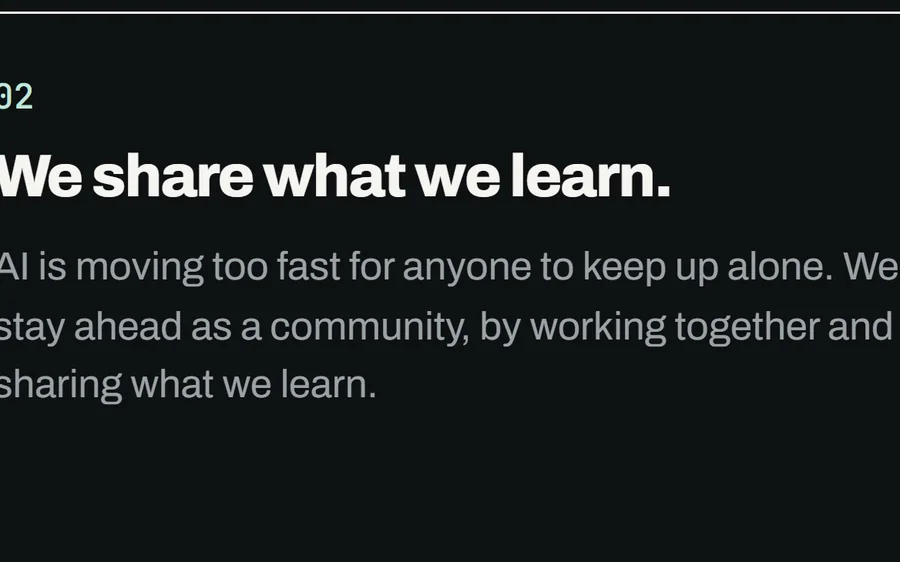
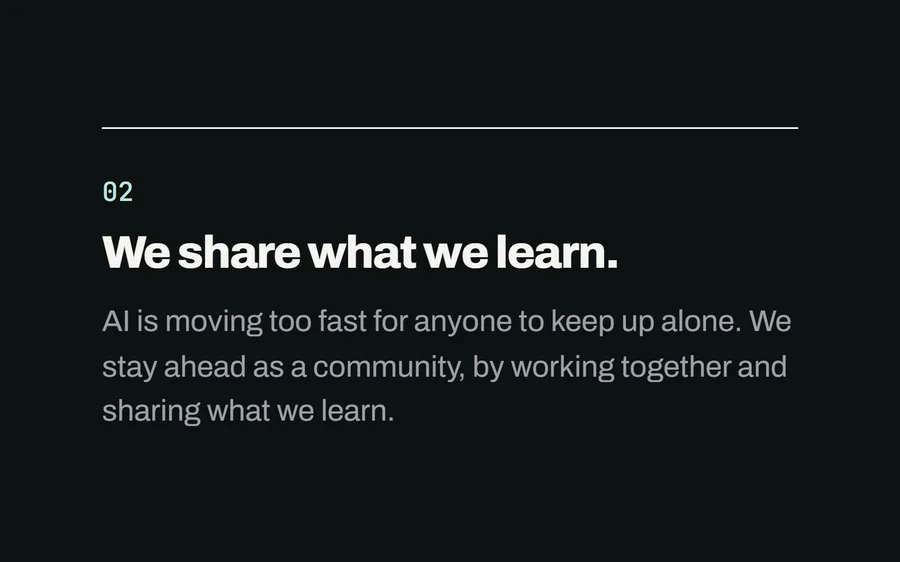
fix: give two AI Build Night step pictures proper margins
The north star crops ran into the edges of their frames, and one lost its
number. Each line now sits whole on the band's own colour.

diff --git a/ASSETS.md b/ASSETS.md
@@ -4,7 +4,7 @@ Everything under `public/media/` is a real capture, taken on 2026-10-31 unless n
 
 | Folder | Source |
 | --- | --- |
-| `build-night/` | aibuildnight.ca in production, captured on 2026-11-01: the home page's closing band, its two north star lines, and the challenge page. Text only: no Night 001 photos, because attendee permission is still pending, and no organisers' portraits. Exported at 480 and 900 wide, 8:5. |
+| `build-night/` | aibuildnight.ca in production, captured on 2026-11-01: the home page's closing band, its two north star lines, each shown alone on the band's own colour with room around it, and the challenge page. Text only: no Night 001 photos, because attendee permission is still pending, and no organisers' portraits. Exported at 480 and 900 wide, 8:5. |
 | `sandbox/` | playbythesandbox.ca in production. `site-loop.mp4` plays forward then backward so it loops cleanly. `event` is the who's-in-the-sandbox sheet and `crayon` the map, captured on 2026-11-01 at 480 and 900 wide, 8:5. |
 | `offbooked/` | Offbooked from its staging branch, run locally on a throwaway Postgres on Hamlet, with demo cast names. `invite` is the screen a cast member lands on, so no invite link is in shot. |
 | `parkdex/` | `arrival` is web.parkdex.app in production, as a guest, in a browser that blocked every write. The `@n8tewolf` on it is the owner's own handle. `planted` is from parkdex.app in production, whose app captures use demo handles. `leaderboard` and `explore` are the Parkdex landing page's own 2026-10-16 captures of a local run: its README records that every player on them is fictional and exists only in that throwaway database. `kip-wave` is from the same page, and the other `kip-*` poses are from `art-source/kip/` in the Parkdex repo. |
